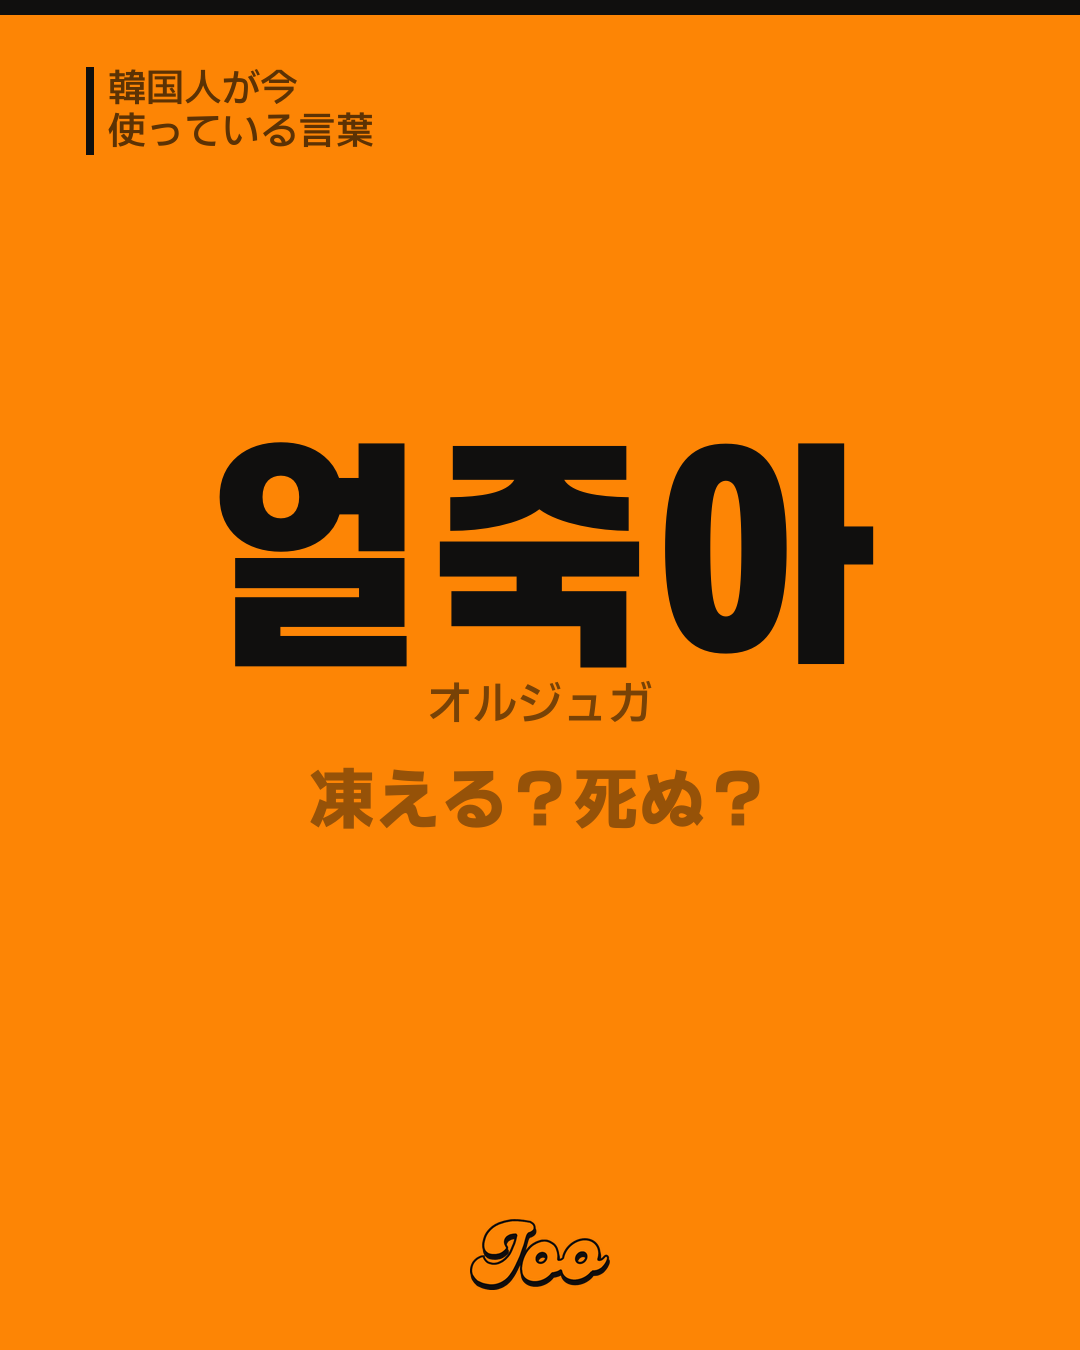
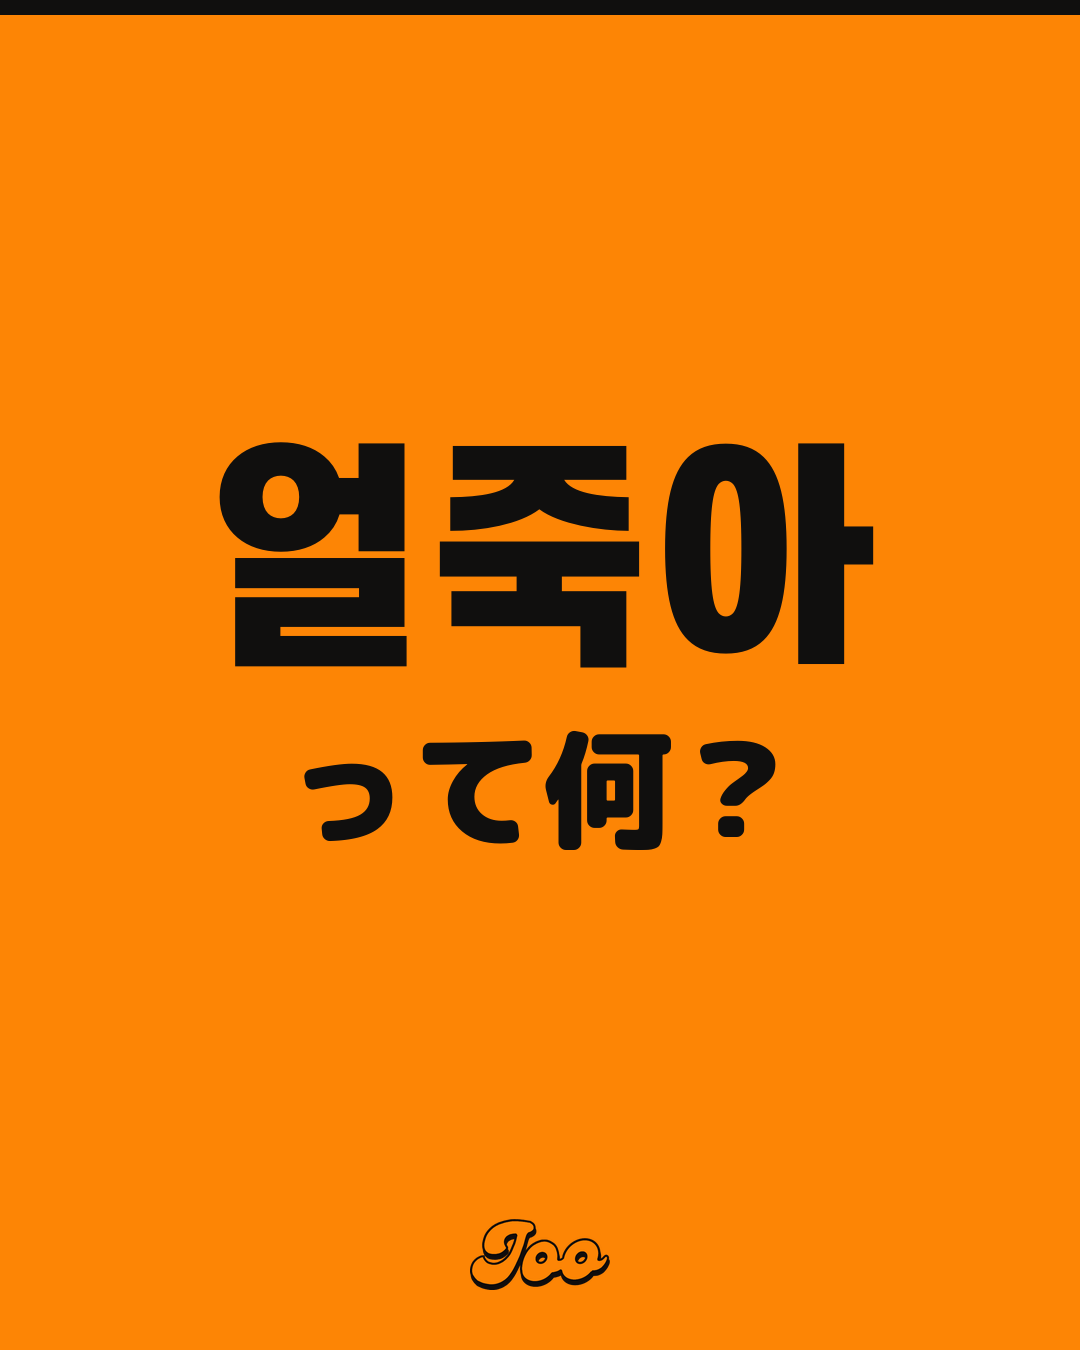
5일차 표지 훅 교체: 얼죽아って何？
Claude-Session: https://claude.ai/code/session_014KcaNubLYfQzBws3QcAx4A

Changed region(s): [[0.275, 0.4978, 0.7333, 0.6533], [0.0611, 0.0311, 0.3361, 0.1244]]

diff --git a/상태.md b/상태.md
@@ -47,3 +47,4 @@
 - Day 5 얼죽아: "4文字の頭" → "3つの言葉の頭". 이미지 d05_insta_02.png 도 해당 줄만 다시 그려 반영함(10/15). 유튜브용 정사각형 d05 는 맥 쪽 파일이라 별도
 - Day 1 카페: 예문 "따뜻한 거로" → "따뜻한 걸로". 이미 올라간 게시물(10/13)은 못 고친다
 - Day 6 깎아 주세요 요미: ッカッカ로 바꿨다가 되돌림. 어절 첫 된소리 5개 중 ッ가 붙은 건 꾸안꾸뿐이라 `カッカ`가 다수 표기. 표기를 통일할지는 사장님이 정함(이미지 재생성 불필요)
+- Day 5 표지: 훅을 `얼죽아って何？`로 교체(라벨·요미 제거, 글자 최소화). 캡션 첫 줄도 `「얼죽아」って何？`. 계획.json quiz="って何？". 맥의 card.py로 다시 만들면 레이아웃이 달라질 수 있으니 저장소의 d05_insta_00.png를 기준으로 삼을 것
